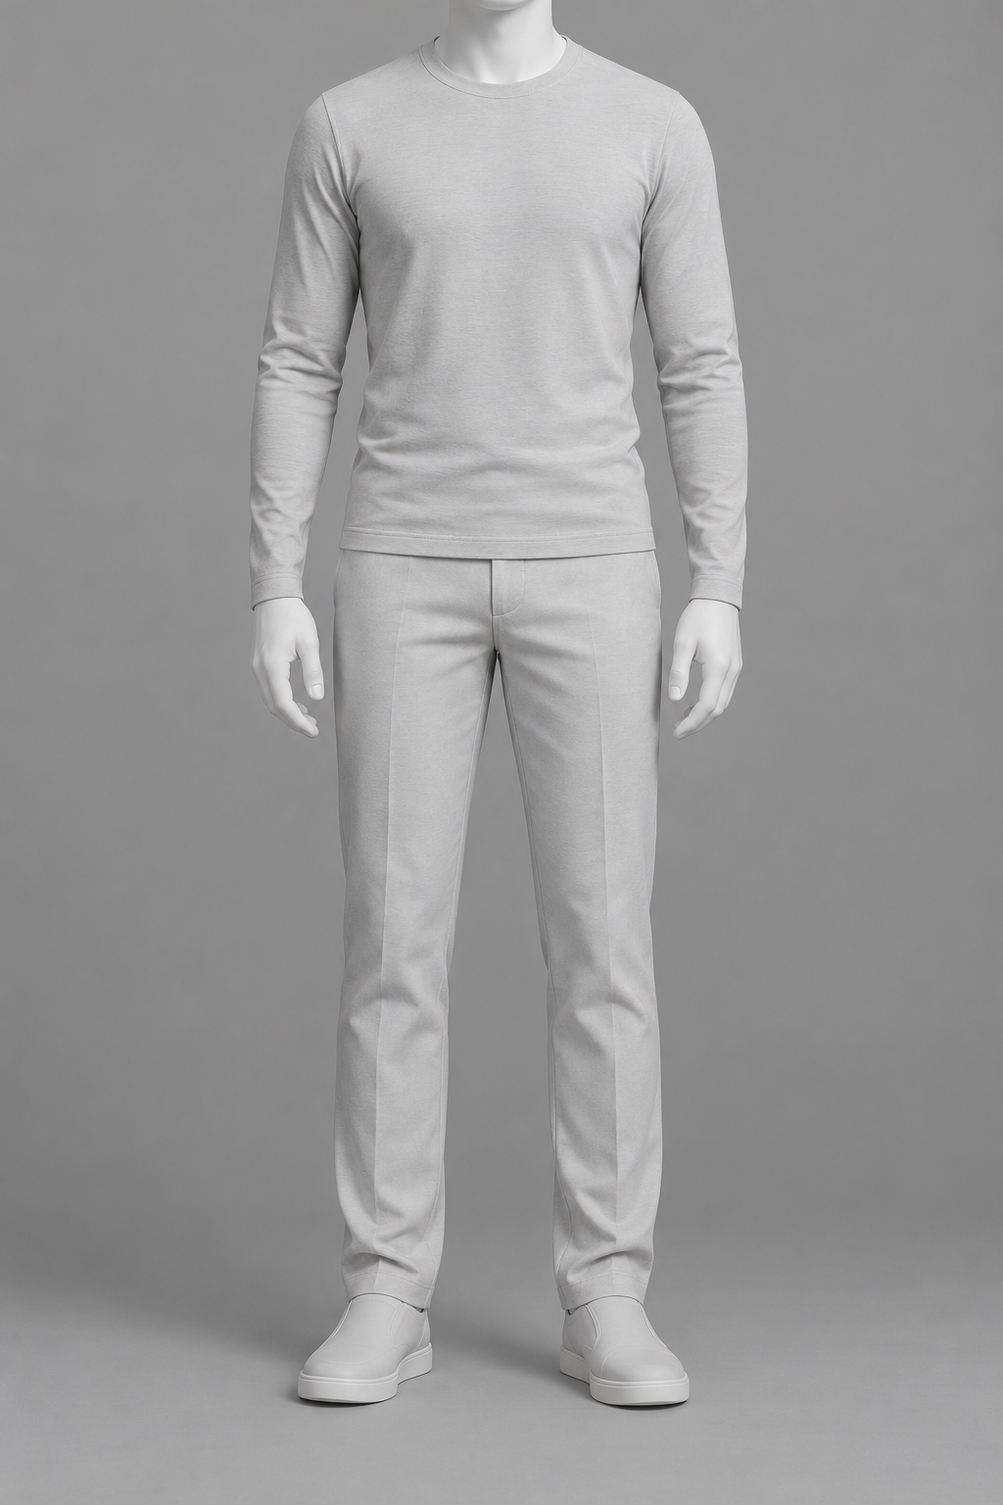
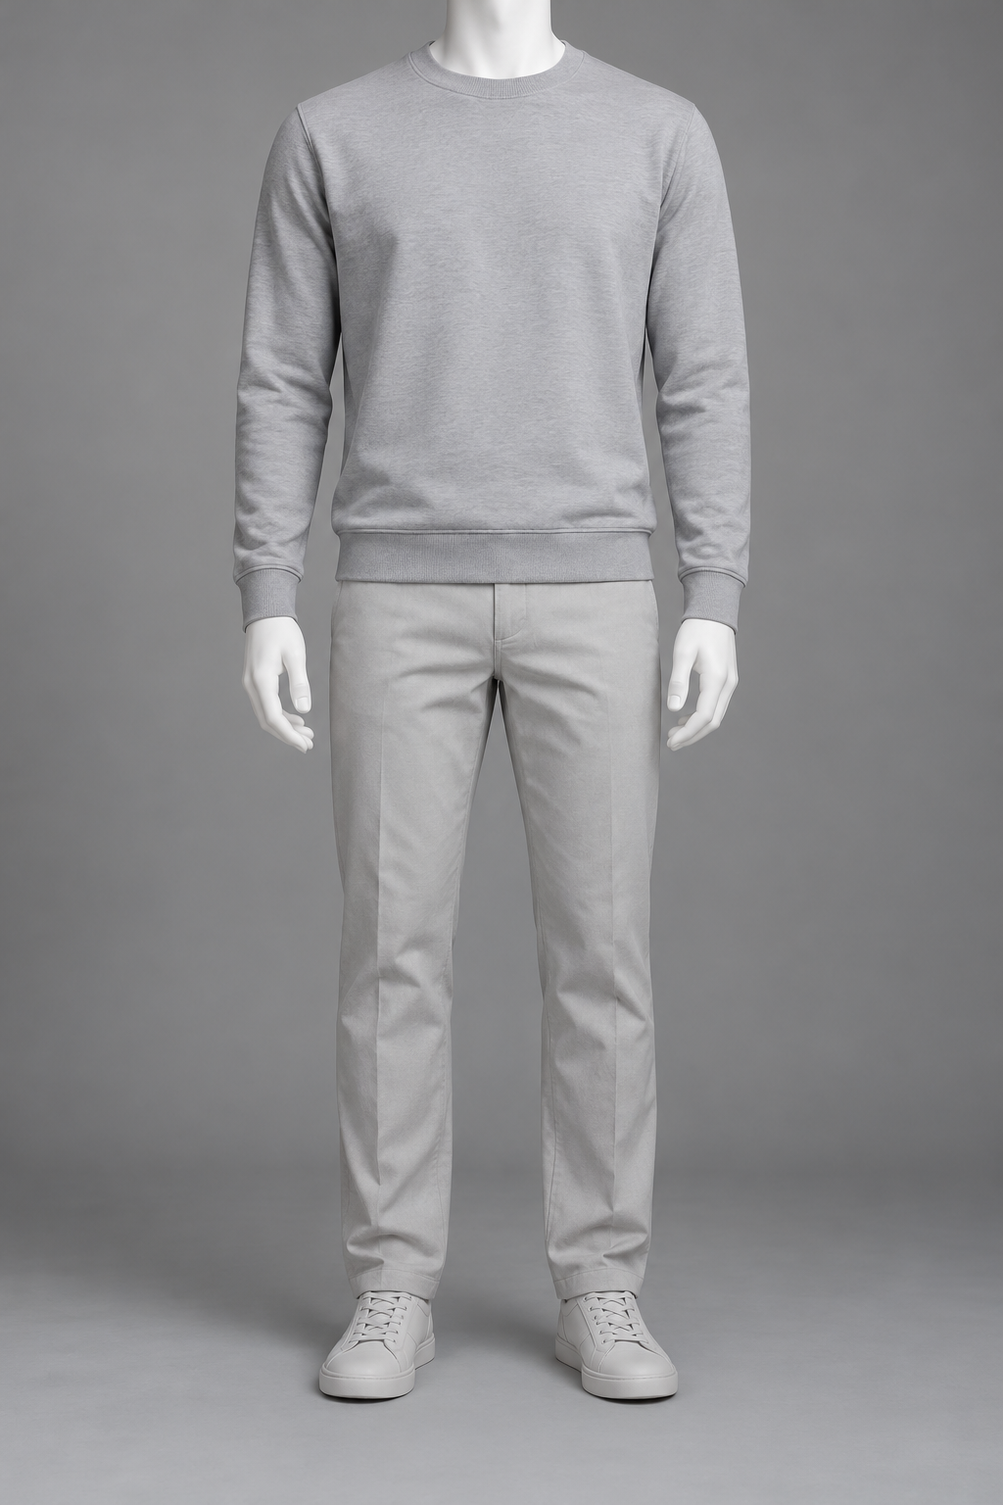
Fix first-pass body framing with neck-only references and reject retired inputs

diff --git a/skills/character-asset-card/scripts/check_framing_reference.py b/skills/character-asset-card/scripts/check_framing_reference.py
@@ -48,6 +48,9 @@ def main():
             wrong = {item['sha256'] for item in entries if item['view'] != args.view}
             if any(digest in wrong for _, digest in inputs):
                 raise ValueError('Another bundled framing view is also present; pass only the matching view.')
+            retired = {item['sha256'] for item in manifest.get('retired_references', [])}
+            if any(digest in retired for _, digest in inputs):
+                raise ValueError('A retired framing PNG is also present; remove the old reference before generation.')
         print(json.dumps({'view': args.view, 'framing_file': str(expected),
                           'sha256': expected_sha, 'matched_input_paths': matches,
                           'framing_reference_in_arguments': True}, ensure_ascii=False))

diff --git a/skills/character-asset-card/references/six-grid-template.md b/skills/character-asset-card/references/six-grid-template.md
@@ -11,7 +11,7 @@
 
 上排采用紧凑头部特写：头顶至下巴（背面为后脑下缘）以约占图高80%为目标，三张头部大小相近。通过收紧镜头取景实现，不改变头颈解剖比例。数字只作目标，完整自然脖子优先。头顶仅留约1%–3%空隙，完整保留自然脖子；底部只带少量肩根、肩颈连接与衣领，双肩外端及胸背主体在画外；底边紧接颈根和衣领。不能为数值拉长脖子或切掉头部，也不能为了露出衣服缩小头部。长发自然遮住后颈时保留真实遮挡，不改发型。
 
-下排模拟完整人物的自然摄影取景：正/侧面上边界紧接下巴下缘，背面紧接后脑下缘，使完整脖子连续穿过画面上边界进入肩膀。头部只是位于画外，人体本身完整；不出现被封平的脖子、无脖子的衣领、空领口或断颈模型。双肩、手和鞋底完整入画。不要因为写“颈下身体”而把脖子也删除；提示词使用“保留完整脖子至鞋底”。
+下排模拟完整人物的自然摄影取景：**上边界横穿下颌以下的上颈部皮肤，边界处只有脖子和背景；整个下巴、下颌轮廓、口鼻、耳朵及后脑均在画外。**保留自然可见的脖子，连续连接衣领和双肩至完整鞋底。既不沿下巴轮廓取边，也不为了去头把边界压到衣领、删除脖子或拉长脖子。人物身体完整，只是头部在相机画外；颈部没有封平截面、空领口或断颈造型。披发等自然延伸到肩背的部分沿用原造型。
 
 上下排保留肩颈和衣领重叠，用来核对身份与造型连接。它们是两种景别，不是等待无缝拼接的两半身体。
 
@@ -56,11 +56,26 @@ python3 scripts/check_framing_reference.py 实际生图参数.json --view head-f
 
 > 生成一张1:1方形的紧凑背面头部特写。人物正背向相机，完整保留头顶、后脑与自然后颈连接，头顶至后脑下缘约占图高80%，头顶只留约1%–3%空隙，下边界紧接颈根与后领，上背主体在画外。底部仅带少量肩根和后领，双肩外端与大部分上背在画外。披散长发可自然遮颈并向画外延伸，不为露颈改变发型。
 
-下排正/侧/背（分别调用，填写对应方向）：
+下排首轮先写取景，再写该人物可见的身材、肤色、服装与背景。三个方向分别使用以下句子，不沿用上排五官／表情段：
 
-> 生成一张2:3竖幅的[正面/左侧面/背面]身体参考照片，自然站立，双臂垂下。从完整脖子一直展示到完整鞋底，双肩和双手入画。画面上边界位于[下巴下缘/后脑下缘]，完整脖子从上边界自然连续进入画内，连接衣领与肩膀；完整人物的头部只是位于画外，呈现自然镜头取景的感觉。鞋底下留少量空间，脖子长度自然。
+下排正面：
 
-先用正向取景描述；若出现已证实的无脖子/封口问题，再针对该问题补约束并重生本格，不累加无关负面词。
+> 生成一张2:3竖幅正面身体参考图，取景从自然脖子延伸至完整鞋底。画面上边界横穿下颌以下的上颈部皮肤，边界处只有颈部和背景；整个下巴、下颌轮廓、口鼻和耳朵位于画外。保留自然可见的脖子，连续连接衣领、双肩和身体。人物正对相机，双臂自然垂下，双手与完整鞋底入画，鞋底下少量留白。人体完整，头部在相机画外，颈部不封口。
+
+下排侧面：
+
+> 生成一张2:3竖幅严格90度左侧身体参考图，取景从自然脖子延伸至完整鞋底。上边界横穿下颌以下的上颈部皮肤，边界处只有颈部和背景；整个下巴、下颌侧面突起、口鼻、耳朵和后脑位于画外。保留自然可见颈长，连续连接侧面衣领与肩膀。整个人的颈、肩线、胸廓、骨盆和脚都朝画面左，近侧肩臂遮住远侧肩臂；双手和完整鞋底入画。人体完整，头部在相机画外，颈部不封口。
+
+下排背面：
+
+> 生成一张2:3竖幅正背面身体参考图，取景从自然后颈延伸至完整鞋底。上边界经过后脑以下的上颈部皮肤，头骨、后脑轮廓与耳朵位于画外；自然后颈从上边界连续进入后领和双肩。人物正背向相机，双臂垂下，双手与完整鞋底入画，鞋底下少量留白。人体完整，头部在相机画外，颈部不封口；原造型的披发可自然进入肩背范围。
+
+## 首轮生成前的构图检查
+
+- 先实际看本格白模上边界，确认没有下巴、颌线、耳朵或后脑。错误白模会把偏差传给首轮，先修白模，再用于人物。
+- 身体格的正式提示词从上述取景句开始，然后补本次可见的体型、肤色和服装。原始照片仍作身份／造型输入；不把画外的眼睛、鼻子、唇形、表情写成身体图的画面内容。
+- 提交前删掉冲突的旧句：身体图“完整头顶到脚”、上边界沿下巴／后脑轮廓，或要求展示下半张脸。不要在冲突句后面叠加更多否定词。
+- 实际传当前单视角白模，运行输入检查后，用同一份参数调用。首轮就包含这些约束，不把它们留到返修提示词。后验目检保留，用于发现偶发偏差；提示词和软图像参考都不保证每次一遍成功。
 
 ## 原像素等宽排版
 
@@ -72,6 +87,6 @@ python3 scripts/check_framing_reference.py 实际生图参数.json --view head-f
 
 若头部仍偏小，先去除与紧取景冲突的“半身、完整双肩、少量上胸/上背、下边界经过胸部”等旧句；将主景别写成 `tight head close-up, head fills the square frame`，底边明确紧接颈根和衣领。参考只负责身份/服装时，不沿用它的旧构图。实际看图比较头顶至下巴的占高、头顶空隙与肩胸可见范围；不能只把百分比写进记录就算通过，也不能靠后期裁切/放大补救。
 
-若侧面偏成3/4，或下排露出明显口鼻，先实际看图确认问题，再独立重生该格。检查实际调用是否已传入正确的单视角白模；必要时先修正白模。它仅负责相机角度和取景，原身份照仍负责脸部，造型照仍负责衣服。明确参考职责，不能用白模替换真人身份，也不能把白模的衣服、材质和身形带入人物。
+若侧面偏成3/4，或下排露出任何下巴、颌线、口鼻、耳朵或后脑，先实际看图确认问题，再独立重生该格。检查实际调用是否已传入正确的单视角白模；必要时先修正白模。它仅负责相机角度和取景，原身份照仍负责脸部，造型照仍负责衣服。明确参考职责，不能用白模替换真人身份，也不能把白模的衣服、材质和身形带入人物。
 
-侧面可写：`true 90-degree left profile, only the near eye visible, forehead-nose-lips-chin form one side silhouette`。身体可写：`top frame edge immediately under the chin; mouth, nose, eyes and glasses outside the frame; entire neck, shoulders, body and shoes retained`。这些是取景指令，不保证精确几何；仍须实际看图。
+侧面可写：`true 90-degree left profile, only the near eye visible, forehead-nose-lips-chin form one side silhouette`。身体首轮使用：`top frame edge intersects upper-neck skin below the entire jaw; all chin and jaw contours, mouth, ears and skull stay above the frame; natural visible neck continues into shoulders, body and complete shoes`。这些是取景指令，不保证精确几何；仍须实际看图。

diff --git a/skills/character-asset-card/references/prompt-and-record.md b/skills/character-asset-card/references/prompt-and-record.md
@@ -4,28 +4,30 @@
 
 ## 共享角色约束
 
-先用中文列清楚，再按工具需要编写正式提示词。实际提交每个模块时带上相关完整约束，不只写“和上张一样”。
+先用中文列清楚，再按工具需要编写正式提示词。实际提交每个模块时带上相关完整约束，不只写“和上张一样”。头部格与身体格分别组装提示词：身体格先写下方取景边界，原始照片仍作身份／服装输入，但画外五官和表情不写成画面要求。
 
 ```text
 生成一张全新的[摄影/本次指定风格]图像，参考图用于身份与设计参考。
-参考A仅负责[面部身份、具体肤色、妆容、瞳色及必须保留的面部特征]。
+参考A仅负责[头部格：面部身份、肤色、妆容等；身体格：可见肤色、本人身材和手部特征，不要求出现脸部]。
 参考B仅负责[发型、服装层次、版型、图案、配饰]。
-参考C为[本格白模PNG]，仅负责镜头方向、景别、头部占比与画面边界；实际附图，不只写名称。人物仍保留A的身份、自然头颈比例、肤色和发型，穿B的衣服。六宫格默认从assets/framing/manifest.json取对应单格；用户自定义构图优先。
+参考C为[本格白模PNG]，仅负责镜头方向、景别、上排头部占比或下排颈部边界；实际附图，不只写名称。人物仍保留A的身份、自然头颈比例、肤色和发型，穿B的衣服。六宫格默认从assets/framing/manifest.json取对应单格；用户自定义构图优先。
 本次明确变更：[例如内搭款式；或眼镜去留]。
 左右设定：[人物自身哪肩背包、哪腕佩戴何物]。
 背景、光线：[统一背景与柔光；肤色保留的具体要求]。
 本张模块：[只选一个视角/一种表情/一个细节主体]。
-构图：[六宫格上排为1:1紧凑头部近照，头顶至下巴约占图高80%，保留自然脖子，底部仅带少量肩根和衣领；下排为保留完整脖子至鞋底的自然画面取景。四视图模式的正/侧/背为完整头顶到鞋底，头顶和鞋底外留白]。
+构图：[六宫格上排为1:1紧凑头部近照，头顶至下巴约占图高80%，保留自然脖子，底部仅带少量肩根和衣领；下排上边界横穿下颌以下的上颈部皮肤，整个头部在画外，保留自然可见脖子至完整鞋底。四视图模式的正/侧/背为完整头顶到鞋底，头顶和鞋底外留白]。
 补全：[参考缺失的下半身、鞋履或背面采用何种克制设计，三视图共享同一设定]。
 单张连续画面，文字与排版留给后续页面；不生成拼贴或多宫格。
 ```
 
 不要照搬其他角色的肤色、蓝瞳、长短T或眼镜要求。人物身份与造型照片冲突时，在正式文本中明确每个属性取哪张图，而非泛称“融合两图”。
 
+身体格必须将 [six-grid-template.md](six-grid-template.md) 对应正／侧／背的完整取景句置于上述身份与造型段之前；生成前消除“沿下巴轮廓取边、展示下半张脸、完整头顶到脚”等冲突内容。不要等返修才加入这些约束。
+
 ## 各模块变量
 
 - **正面/侧面/背面**：身体与头部是否同向、严格侧面还是3/4、人物哪侧靠近相机、鼻尖朝画面哪边、相同取景上下界，六宫格按上排头部肩颈/下排保留脖子至鞋底分别写取景；指定四视图的正侧背为完整头顶至鞋底并留白。纯侧面时整个人转满90度，头、颈、肩线、胸、髋与脚同向，近侧肩膀遮住远侧肩膀；紧凑头部特写的画外身体也保持此方向。正面人物左侧通常在画面右，背面人物左侧在画面左；姿势变化时重新确认。
-- **六宫格构图**：读取 [six-grid-template.md](six-grid-template.md) 的正向取景模板。上下排都保留自然脖子与肩颈连接；下排只是头部在画面外，不能出现封口、空领口或缺失脖子。
+- **六宫格构图**：读取 [six-grid-template.md](six-grid-template.md) 的正向取景模板。上下排都保留自然脖子与肩颈连接；下排上边界经过上颈部皮肤，整个下巴／颌线／口鼻／耳朵／后脑都在画外；不能出现封口、空领口或缺失脖子。
 - **表情**：平静/轻微闭唇微笑/专注/轻微惊讶等，写出眼、眉、唇的变化程度；头部方向与人脸占比尽量统一。情绪强度按用户需要，不默认夸张大笑。
 - **服装**：只展示相关材质、领口、叠穿或扣件结构，写明画面边界，避免无关脸部进入细节格。
 - **鞋履**：用已采用人物实际穿着的鞋或用户确认的设计为依据，逐项写鞋帮高度、鞋底轮廓、鞋头、绑带数量/上下顺序、扣件、侧面拼片、配色。指定一只鞋和一个视角；无需附上人脸参考。
@@ -43,4 +45,4 @@
 
 局部修正只替换页面中该模块映射；记录前后版本及其他模块SHA不变。若用户要求全部推翻则按新约束整套新建版本，不能将旧图当作全部重新生成的交付。
 
-最终导出不能缩放或裁切模块；上下画框等宽所需补边仅在原图外增加画布，记录原图区域并逐像素核验。卡面默认只留编号与视图短标签，不放标题、版本和参数说明。完整卡与每张采用的模块原图都必须保留，统一放入当前项目约定的 `人物资产卡/<角色与造型>/` 的同一文件夹；每张原图只留一个实体文件，跨版本引用该文件。不要为记录重复复制原图、内嵌大HTML或打包ZIP。去重仅处理已验证的重复副本，不能删除唯一独立原图；维护项目原路径的兼容链接。历史文件确实缺失时记录实际状态，不能把已缺失路径写成当前可用文件。
+最终导出不能缩放或裁切模块；上下画框等宽所需补边仅在原图外增加画布，记录原图区域并逐像素核验。卡面默认只留编号与视图短标签，不放标题、版本和参数说明。完整卡与每张采用的模块原图都必须保留，统一放入当前项目约定的 `人物资产卡/<角色与造型>/` 的同一文件夹；每张原图只留一个实体文件，跨版本引用该文件。不要为记录重复复制原图、内嵌大HTML或打包ZIP。去重仅处理已验证的重复副本，不能删除唯一独立原图；按当前版本策略维护现用入口，不复建退役资产兼容链接。历史文件确实缺失时记录实际状态，不能把已缺失路径写成当前可用文件。

diff --git a/skills/character-asset-card/SKILL.md b/skills/character-asset-card/SKILL.md
@@ -27,7 +27,7 @@ description: 默认制作三列两排六宫格人物资产卡：上排正侧背1
 
 六宫格的上排是**紧凑头部特写**：完整头顶、下巴与自然脖子入画，底部仅保留少量肩根、肩颈连接和衣领，双肩外端及大部分上胸/上背位于画外。三张均为原生1:1方图；头顶至下巴（背面为后脑下缘）以约占图高80%为构图目标，实际以自然头颈连接和清楚脸部为准。不能为了比例切掉头顶、下巴或自然脖子，也不能拉长脖子；无需为展示衣服而缩小头部。以取景减少可见肩胸面积，保持头颈本身的自然比例；数字是构图目标，不是自动验收结论。
 
-下排为**保留完整脖子与双肩至鞋底的身体取景**：完整人物自然被画面上边界裁去头部的摄影感觉，脖子从上边界连续进入画内，颈根、双肩、衣领、双手、身体和完整鞋底可见。不得生成无脖子、空领口、平封口或断颈模型；不是把头或脖子擦除。上下排肩颈重叠是必要的连接信息，不追求拼成一张身体。制作六宫格前读 [六宫格构图与白模模板](references/six-grid-template.md)。
+下排为**保留自然脖子与双肩至鞋底的身体取景**：上边界横穿下颌以下的上颈部皮肤，边界处只有脖子和背景；整个下巴、下颌轮廓、口鼻、耳朵与后脑均在画外。脖子连续连接衣领与双肩，双手和完整鞋底入画。不要沿下巴轮廓取边，也不把上边界压到衣领来删掉脖子；人体完整，头部只是处于相机画外，颈部不封口。上下排肩颈重叠是必要的连接信息。制作前读 [六宫格构图与白模模板](references/six-grid-template.md)，**首轮即使用其中身体取景句，先写边界，再写可见体型／肤色／服装；身体格不沿用画外五官和表情段。**
 
 四视图模式的正/侧/背仍默认完整头顶至鞋底全身，头部肩颈近照独立生成。只有用户明确要求其他景别才改变。参考缺失的下半身、鞋履与背面标注设计补全。所有模式均分别生成模块，保留完整卡及每张采用原图；不把多视图整图裁开冒充独立生图。高清重做记录实际原生尺寸，不把放大旧卡称为高清新生图。
 
@@ -56,6 +56,7 @@ description: 默认制作三列两排六宫格人物资产卡：上排正侧背1
 使用当前环境实际可用且支持参考图的图像生成工具；如有相应技能，先读其说明。没有工具时只交付准备材料，不伪造成图。按真实工具语义执行**参考新生图**，不能用“新生图”措辞冒充实际的编辑操作。本流程默认仅新生图：不编辑、修补、重绘、换脸或在生成结果上反复加工。用户后来明确要求修改流程时，以新要求为准。
 
 - 每次调用只生成一个视角、一种表情或一个细节场景，输出一张独立原图；禁止双联图、拼贴、插图小窗及模型自带标签。
+- 身体格生成前先看白模上边界，删除“头顶至鞋底、沿下巴／后脑轮廓取边、展示下半张脸”等冲突描述，核对实际输入为当前对应单格。完整身体取景约束在首轮正文最前面生效；生成后仍实际目检，不承诺一遍必成，也不以后期裁切掩盖构图偏差。
 - 身份/发型/服装/光线背景使用共享文字设定；本次变量只写视角、表情或细节取景。纯配饰模块不机械附上整段人像提示词。
 - 六宫格默认实际图片输入为“原始身份参考＋原始造型参考＋对应视角白模”；身份/造型同源时可合用一张。逐格传单视角白模，不把整张六宫格或错误视角传作构图条件。提交前从真实 `referenced_image_paths` 检查路径与SHA，可运行 [scripts/check_framing_reference.py](scripts/check_framing_reference.py)；将同一份参数用于实际调用并保存结果记录。仅在提示词里写“参考白模”或记录里加名称不算接入。
 - 默认使用原始身份、原始造型参考。先检查正面头部肩颈的身份和自然连接，再扩展其他模块；被用户否定的人脸不能作为身份基准。

diff --git a/skills/character-asset-card/references/consistency-review.md b/skills/character-asset-card/references/consistency-review.md
@@ -5,7 +5,7 @@
 ## 输入与判断
 
 1. 先核对本轮实际生图参数中的白模路径、SHA与模块方向，确认构图参考真正传入；缺失时记录缺失，不能凭提示词声称已使用。打开身份、造型、对应白模及全部采用图。大图可以先看整体，再查看疑点区域；不能只看缩小整卡或沿用上轮检查结论。
-2. 六宫格先检查构图：上排三张为1:1紧凑头部特写（头顶至下巴约80%为目标），头部明显占主导、三张大小相近，完整头顶、下巴与自然脖子保留，肩根和衣领只占底部少量区域；下排三张完整保留脖子、双肩和鞋底，脖子连续穿出上边界，不是无脖子或封口模型。侧面另外核对整个人同向：头部、颈部、肩线和胸廓均侧向，近侧肩膀遮住远侧肩膀；不能只凭侧脸轮廓判断身体也已侧向。再比较上下排共享肩颈、衣领和方向是否一致。比例/文件检查不能替代这些观察。
+2. 六宫格先检查构图：上排三张为1:1紧凑头部特写（头顶至下巴约80%为目标），头部明显占主导、三张大小相近，完整头顶、下巴与自然脖子保留，肩根和衣领只占底部少量区域；下排三张保留自然可见脖子、双肩和鞋底，上边界经过上颈部皮肤，不能露出下巴、下颌轮廓、口鼻、耳朵或后脑；颈部连续穿出上边界，不是无脖子或封口模型。侧面另外核对整个人同向：头部、颈部、肩线和胸廓均侧向，近侧肩膀遮住远侧肩膀；不能只凭侧脸轮廓判断身体也已侧向。再比较上下排共享肩颈、衣领和方向是否一致。比例/文件检查不能替代这些观察。
 3. 理解这套图是否表达同一个角色、同一套设计。自行从画面提炼需要跨图保持的属性、结构与关系，同时尊重本次明确允许的变化。
 4. 跨视图比较，解释差异能否由视角、姿态、遮挡、透视或光照产生。只把无法用这些因素解释、且有可见证据的冲突列为问题。未知部分与不确定判断单独记录，不能当作已证实缺陷自动改写。
 5. 依据用户明确设定和参考职责确定修复方向，不能简单投票选多数生成结果。多张图相互冲突但没有可靠依据时，保留问题并请求必要澄清。

diff --git a/README.md b/README.md
@@ -27,6 +27,8 @@ Skill随附六张原生PNG，见 [参考目录与SHA](skills/character-asset-car
 
 提交前用 [构图参考检查脚本](skills/character-asset-card/scripts/check_framing_reference.py) 核对真实图片参数；只写“参考白模”不算已接入。
 
+身体格首轮先用明确的颈部上边界：画面经过下颌以下的上颈部皮肤，整个头部在画外，保留自然脖子至鞋底；身体提示词只写可见体型／肤色／服装。提交前核对当前单格白模，拒绝夹带退役构图图。后验目检仍保留，软参考不保证一遍必成。
+
 ## 安装
 
 将 `skills/character-asset-card` 复制到目标项目的 `.agents/skills/`。已有同名Skill时先比较，保留本地修改。
